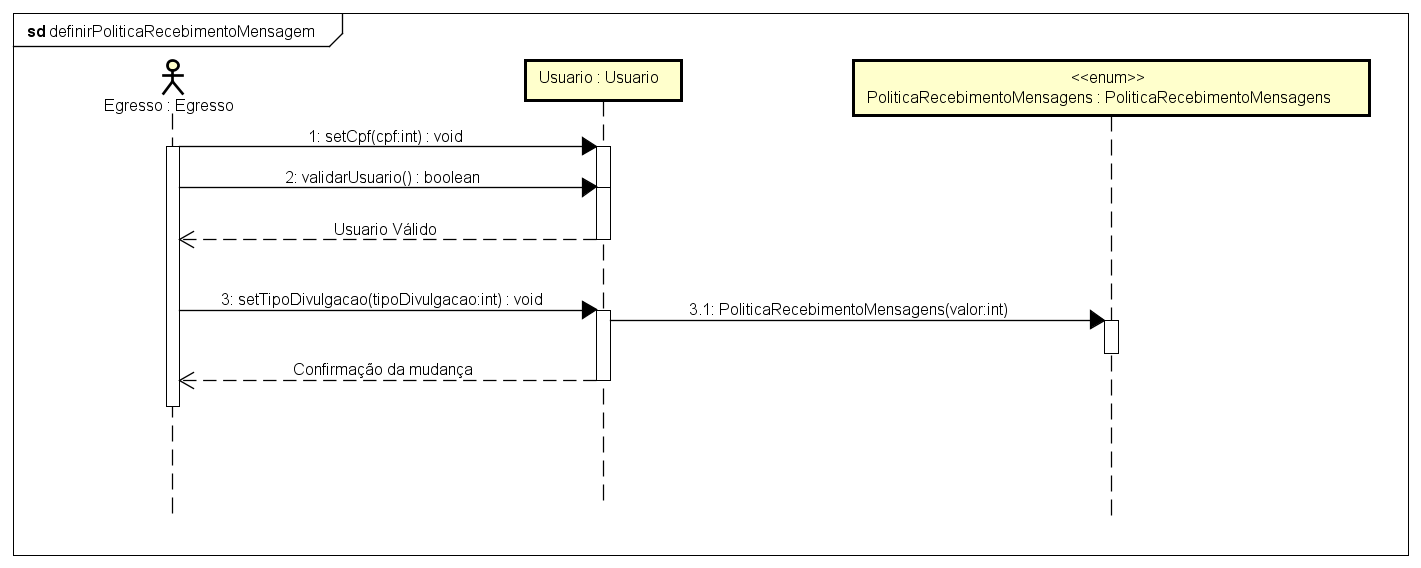
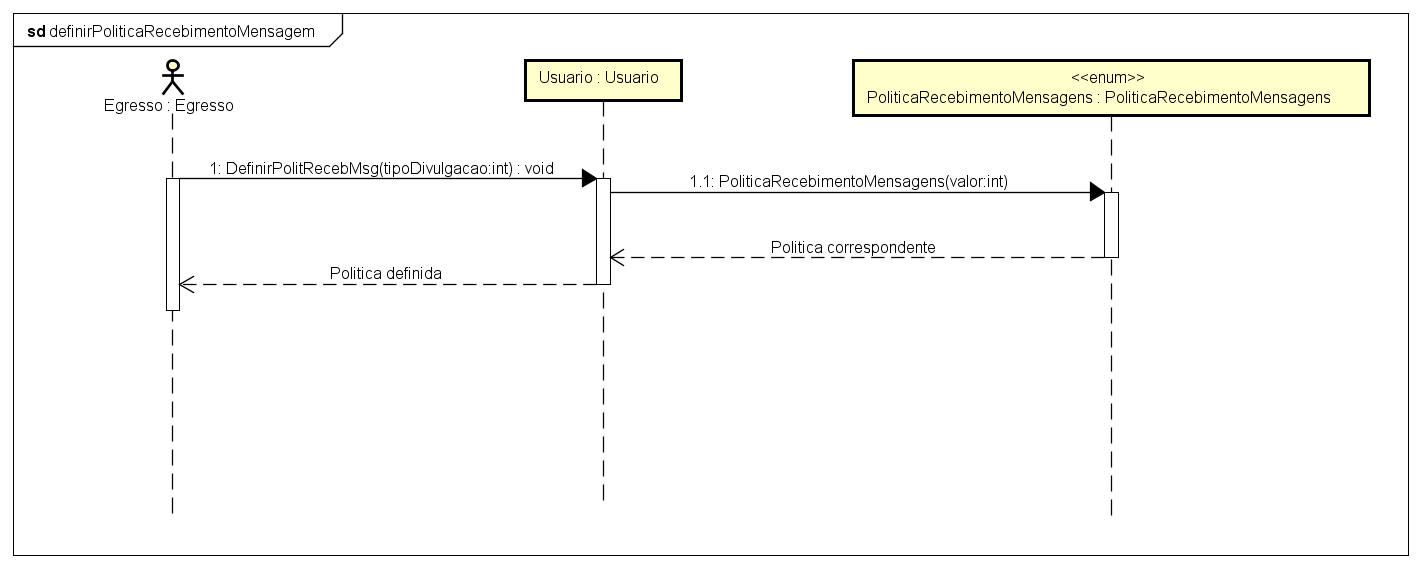
Alteração dos diagramas do RF-PolitRecebMsg
Mudando nome de método na classe usuário e refatorando diagramas.

diff --git a/src/main/java/br/ufg/inf/modelo/Usuario.java b/src/main/java/br/ufg/inf/modelo/Usuario.java
@@ -26,7 +26,7 @@ public class Usuario {
         return tipoDivulgacao;
     }
 
-    public void setTipoDivulgacao(PoliticaRecebimentoMensagens tipoDivulgacao) {
+    public void DefinirPolitRecebMsg(PoliticaRecebimentoMensagens tipoDivulgacao) {
         this.tipoDivulgacao = tipoDivulgacao;
     }
 
